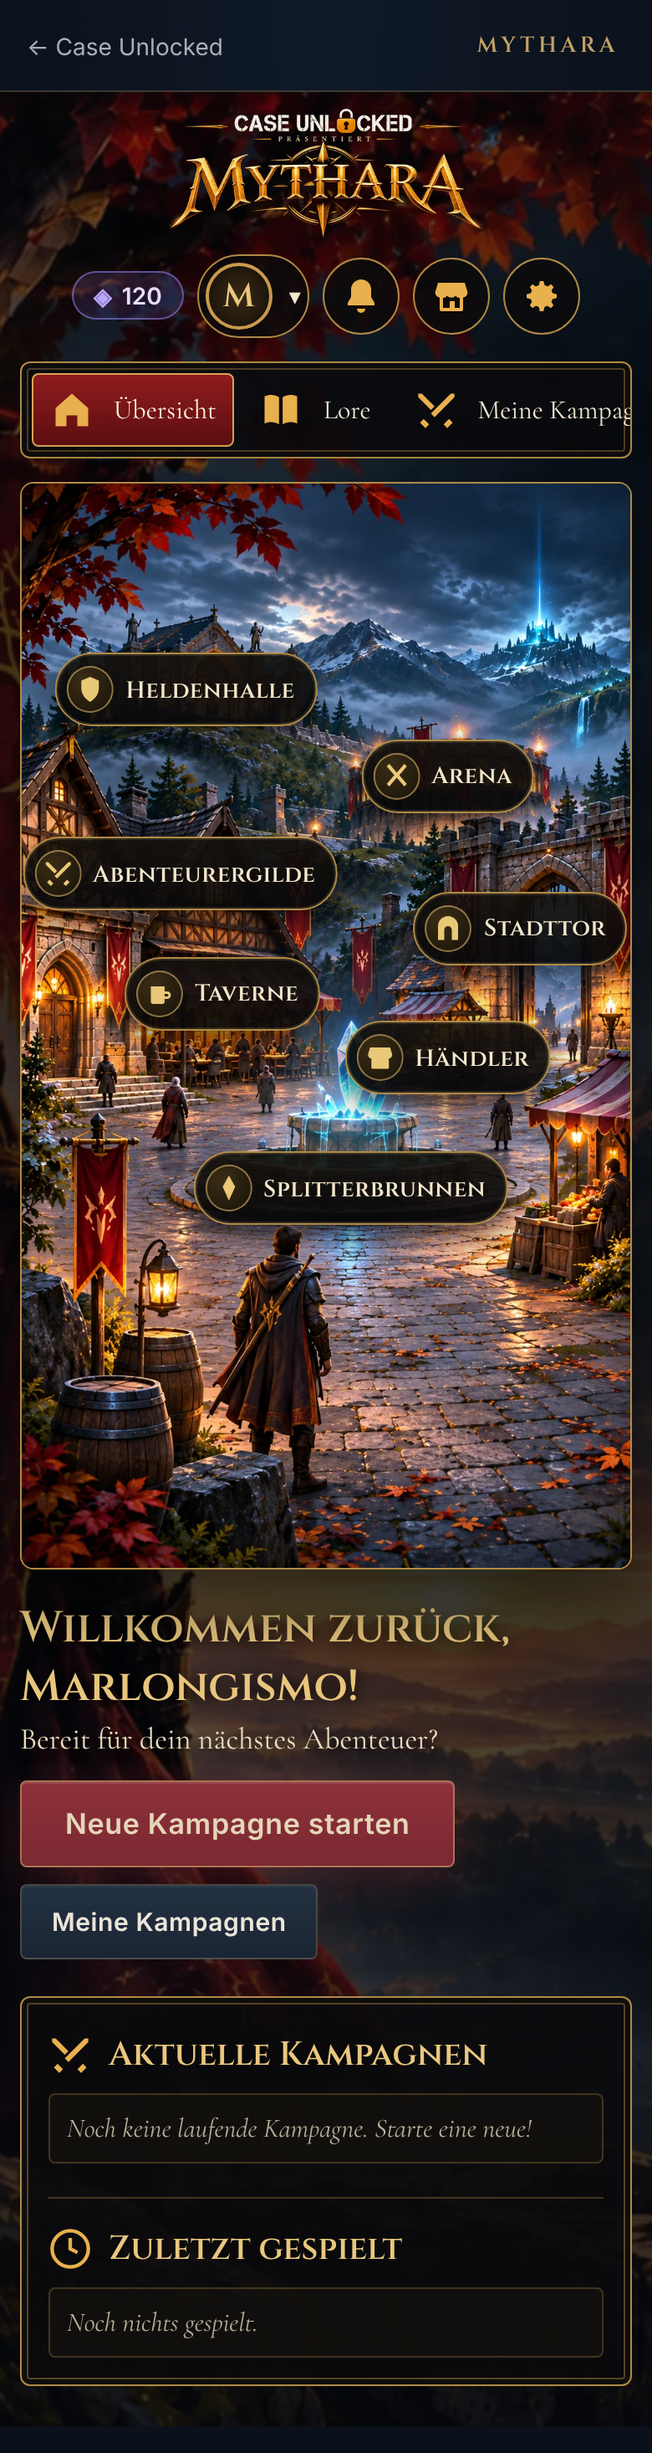
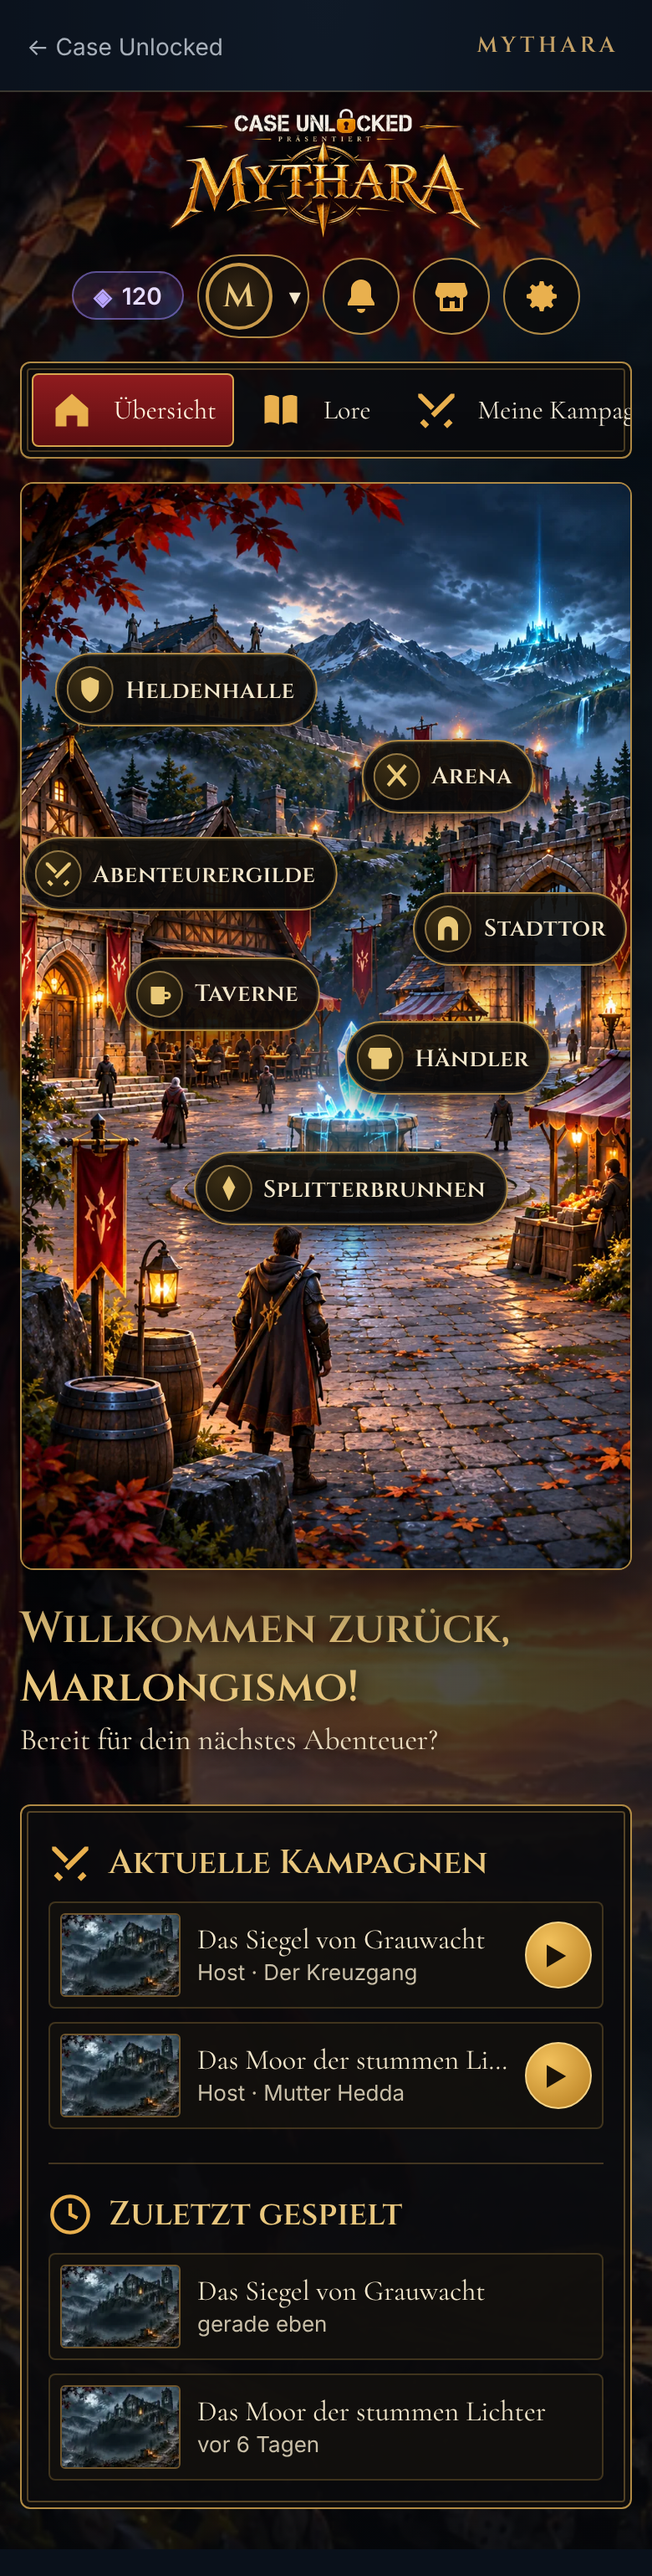
Zwischenstand: Dorf-Startseite ohne Knöpfe unter dem Bild; Abenteurergilde mit Neue Kampagne, Beitreten und Wieder aufnehmen (noch nicht auf main)
Claude-Session: https://claude.ai/code/session_01TxcDgE19T8YxoXVtM1YLbF

diff --git a/abenteuer/js/kampagnen.js b/abenteuer/js/kampagnen.js
@@ -162,16 +162,17 @@
   let archivOffen = false;
   function box(inhalt) {
     const o = $("#qr-overlay");
-    o.innerHTML = `<div class="karte-box kampagnen" role="dialog" aria-labelledby="k-titel"><div class="k-kopf"><h2 id="k-titel">Meine Kampagnen</h2><button class="link" id="k-zu">Schließen</button></div>${inhalt}</div>`;
+    o.innerHTML = `<div class="karte-box kampagnen" role="dialog" aria-labelledby="k-titel"><div class="k-kopf"><h2 id="k-titel">Meine Kampagnen</h2><button class="link" id="k-zu">Schließen</button></div><div class="knoepfe gilde-knoepfe"><button class="btn" data-hub="neu">Neue Kampagne starten</button><button class="btn ghost" data-hub="beitreten">Kampagne beitreten</button></div>${inhalt}</div>`;
     o.hidden = false; $("#k-zu").onclick = () => { o.hidden = true; };
+    o.querySelectorAll(".gilde-knoepfe [data-hub]").forEach((b) => b.addEventListener("click", () => { o.hidden = true; })); // weiter geht es über die Startseite (js/mythara.js)
     return o;
   }
   function eintrag(c) {
-    const i = c.checkpoint || {}, host = c.role === "host", fertig = c.status === "abgeschlossen" || c.status === "archiviert";
+    const i = c.checkpoint || {}, host = c.role === "host", fertig = c.status === "abgeschlossen" || c.status === "archiviert", pause = c.status === "pausiert";
     const spieler = (c.members || []).filter((m) => m.role !== "host");
     const knoepfe = host ? [
-      !fertig && c.version > 0 && i.live ? `<button class="btn klein" data-k="handys" data-id="${c.id}">Mit Handys fortsetzen</button>` : "",
-      !fertig && c.version > 0 ? `<button class="btn ${i.live ? "ghost " : ""}klein" data-k="allein" data-id="${c.id}">${i.live ? "Allein fortsetzen" : "Fortsetzen"}</button>` : "",
+      !fertig && c.version > 0 && i.live ? `<button class="btn klein" data-k="handys" data-id="${c.id}">${pause ? "Mit Handys wieder aufnehmen" : "Mit Handys fortsetzen"}</button>` : "",
+      !fertig && c.version > 0 ? `<button class="btn ${i.live ? "ghost " : ""}klein" data-k="allein" data-id="${c.id}">${i.live ? (pause ? "Allein wieder aufnehmen" : "Allein fortsetzen") : pause ? "Wieder aufnehmen" : "Fortsetzen"}</button>` : "",
       !fertig && c.version === 0 ? `<button class="btn klein" data-k="beginnen" data-id="${c.id}">Beginnen</button>` : "",
       c.version > 0 && c.status !== "archiviert" ? `<button class="btn ghost klein" data-k="neu" data-id="${c.id}">Neu beginnen</button>` : "",
       !fertig && window.MYTHARA && window.MYTHARA.istKonto() ? `<button class="btn ghost klein" data-k="einladen" data-id="${c.id}">Freunde einladen</button>` : "",
@@ -192,15 +193,16 @@
     box(`<p class="note">Kampagnen werden geladen …</p>`);
     let liste;
     try { liste = await rpc("rpg_my_campaigns", {}); }
-    catch (e) { box(`<p class="fb">${esc(e.message)}</p>`); return; }
+    catch (e) { if (!$("#qr-overlay").hidden) box(`<p class="fb">${esc(e.message)}</p>`); return; }
+    if ($("#qr-overlay").hidden) return; // inzwischen weitergeklickt (z. B. „Neue Kampagne starten“): nicht wieder aufklappen
     const offen = liste.filter((c) => c.status !== "archiviert"), archiv = liste.filter((c) => c.status === "archiviert");
     const lokal = window.ABT && window.ABT.gespeichert() && !(K && K.id) ? `<div class="k-lokal"><p>In diesem Browser liegt ein Abenteuer ohne Kampagne.</p><button class="btn klein" data-k="uebernehmen">Als Kampagne speichern</button></div>` : "";
-    const o = box(`<div class="knoepfe gilde-knoepfe"><button class="btn" data-hub="neu">Neue Kampagne starten</button><button class="btn ghost" data-hub="beitreten">Kampagne beitreten</button></div>${lokal}
+    const o = box(`${lokal}
       ${offen.length ? `<ul class="k-liste">${offen.map(eintrag).join("")}</ul>` : `<p class="note">Noch keine Kampagne. Startet ein Abenteuer – es wird automatisch als Kampagne gespeichert.</p>`}
       ${archiv.length ? `<button class="link" id="k-archiv">${archivOffen ? "Archiv ausblenden" : `Archiv anzeigen (${archiv.length})`}</button>${archivOffen ? `<ul class="k-liste archiv">${archiv.map(eintrag).join("")}</ul>` : ""}` : ""}
       <p class="note klein">${window.MYTHARA && window.MYTHARA.istKonto() ? "Deine Kampagnen sind mit deinem Konto verbunden." : "Als Gast gehören deine Kampagnen zu diesem Browser. Mit einem Konto hast du sie auf jedem Gerät."}</p>`);
     const a = $("#k-archiv"); if (a) a.onclick = () => { archivOffen = !archivOffen; bibliothek(); };
-    o.querySelectorAll(".gilde-knoepfe [data-hub]").forEach((b) => b.addEventListener("click", () => { o.hidden = true; })); // weiter geht es über die Startseite (js/mythara.js)
+
     o.querySelectorAll("[data-k]").forEach((b) => { b.onclick = () => aktion(b.dataset.k, b.dataset.id, liste.find((c) => c.id === b.dataset.id), b); });
   }
   async function aktion(was, id, c, b) {

diff --git a/abenteuer/tests/kampagnen-browser.test.js b/abenteuer/tests/kampagnen-browser.test.js
@@ -23,7 +23,7 @@ const K = require('../tools/kampagne.js');
   {
     const p = await (await b.newContext({ viewport: { width: 1280, height: 900 } })).newPage();
     await p.goto(BASE + '/abenteuer/index.html?schnell&testlauf'); await p.evaluate(() => { localStorage.clear(); sessionStorage.clear(); }); await p.reload();
-    await p.click('#my-gast-start'); await p.click('#hub-start [data-hub="neu"]');
+    await p.click('#my-gast-start'); await p.click('.dorf-ort[data-hub="kampagnen"]'); await p.click('.gilde-knoepfe [data-hub="neu"]');
     const reihe = await p.evaluate(() => [...document.querySelectorAll('[data-neu-abenteuer]')].map((x) => x.dataset.neuAbenteuer));
     const soll = K.ids().filter((id) => !K.ALLE[id].META.entwurf).sort((x, y) => (K.ALLE[x].META.schwierigkeit || 1) - (K.ALLE[y].META.schwierigkeit || 1) || (K.ALLE[x].META.reihe || 0) - (K.ALLE[y].META.reihe || 0));
     check(JSON.stringify(reihe) === JSON.stringify(soll), `Hub zeigt alle freigegebenen Abenteuer in der richtigen Reihenfolge: ${reihe.join(' → ')}`);
@@ -39,7 +39,7 @@ const K = require('../tools/kampagne.js');
     const shot = async (n) => { if (SHOTS) { await p.waitForTimeout(300); await p.screenshot({ path: `${SHOTS}/${id}-${n}.png` }); } };
     try {
       await p.goto(BASE + '/abenteuer/index.html?schnell&testlauf&entwurf'); await p.evaluate(() => { localStorage.clear(); sessionStorage.clear(); }); await p.reload();
-      await p.click('#my-gast-start'); await p.click('#hub-start [data-hub="neu"]');
+      await p.click('#my-gast-start'); await p.click('.dorf-ort[data-hub="kampagnen"]'); await p.click('.gilde-knoepfe [data-hub="neu"]');
       await shot('1-hub');
       await p.click(`[data-neu-abenteuer="${id}"]`);
       await p.waitForSelector('#kodex:not([hidden])');

diff --git a/abenteuer/tests/hochwacht.test.js b/abenteuer/tests/hochwacht.test.js
@@ -50,9 +50,9 @@ const R = require('../js/regeln.js'), D = require('../daten/hochwacht.js'), P = 
   p.setDefaultTimeout(20000); p.on('pageerror', (e) => errs.push(e.message)); p.on('dialog', (d) => d.accept());
   try {
     await p.goto(BASE + '/abenteuer/index.html?schnell&testlauf'); await p.evaluate(() => { localStorage.clear(); sessionStorage.clear(); }); await p.reload();
-    await p.click('#my-gast-start'); await p.click('#hub-start [data-hub="neu"]');
+    await p.click('#my-gast-start'); await p.click('.dorf-ort[data-hub="kampagnen"]'); await p.click('.gilde-knoepfe [data-hub="neu"]');
     check(Boolean(await p.$('[data-neu-abenteuer="hochwacht"]')), 'Hochwacht ist im Hub regulär zu sehen (Stufe 3)');
-    await p.goto(BASE + '/abenteuer/index.html?schnell&testlauf'); await p.click('#my-gast-start'); await p.click('#hub-start [data-hub="neu"]');
+    await p.goto(BASE + '/abenteuer/index.html?schnell&testlauf'); await p.click('#my-gast-start'); await p.click('.dorf-ort[data-hub="kampagnen"]'); await p.click('.gilde-knoepfe [data-hub="neu"]');
     await p.click('[data-neu-abenteuer="hochwacht"]');
     await p.waitForSelector('#kodex:not([hidden])'); for (let i = 0; i < 6; i++) await p.click('#kodex-weiter');
     await p.click('#start');

diff --git a/abenteuer/tests/krone.test.js b/abenteuer/tests/krone.test.js
@@ -40,9 +40,9 @@ const R = require('../js/regeln.js'), S = require('../js/szenen.js'), D = requir
   p.on('pageerror', (e) => errs.push(e.message));
   try {
     await p.goto(BASE + '/abenteuer/index.html?schnell&testlauf'); await p.evaluate(() => { localStorage.clear(); sessionStorage.clear(); }); await p.reload();
-    await p.click('#my-gast-start'); await p.click('#hub-start [data-hub="neu"]');
+    await p.click('#my-gast-start'); await p.click('.dorf-ort[data-hub="kampagnen"]'); await p.click('.gilde-knoepfe [data-hub="neu"]');
     check(Boolean(await p.$('[data-neu-abenteuer="krone"]')), 'Die Krone ist im Hub regulär zu sehen (Stufe 4)');
-    await p.goto(BASE + '/abenteuer/index.html?schnell&testlauf'); await p.click('#my-gast-start'); await p.click('#hub-start [data-hub="neu"]');
+    await p.goto(BASE + '/abenteuer/index.html?schnell&testlauf'); await p.click('#my-gast-start'); await p.click('.dorf-ort[data-hub="kampagnen"]'); await p.click('.gilde-knoepfe [data-hub="neu"]');
     await p.click('[data-neu-abenteuer="krone"]');
     await p.waitForSelector('#kodex:not([hidden])'); for (let i = 0; i < 6; i++) await p.click('#kodex-weiter');
     await p.click('#start');

diff --git a/abenteuer/js/mythara.js b/abenteuer/js/mythara.js
@@ -650,7 +650,8 @@
     const h = e.target.closest("[data-hub]"); if (!h || $("#hub").hidden) { const m = $("#hub-menue"); if (m && !m.hidden && !e.target.closest(".hub-profil")) m.hidden = true; return; }
     const was = h.dataset.hub;
     if (was === "uebersicht") return zeigeHub();
-    if (was === "kampagnen") return window.KAMPAGNE ? window.KAMPAGNE.bibliothek() : toast("Kampagnen sind gerade nicht verfügbar.");
+    if (was === "kampagnen") return window.KAMPAGNE ? window.KAMPAGNE.bibliothek()
+      : seiteZeigen("kampagnen", `<h1 class="hub-gruss">Abenteurergilde</h1><p class="hub-untertitel">Gespeicherte Kampagnen sind gerade nicht verfügbar. Ein neues Abenteuer könnt ihr trotzdem beginnen.</p><div class="knoepfe gilde-knoepfe"><button class="btn" data-hub="neu">Neue Kampagne starten</button><button class="btn ghost" data-hub="beitreten">Kampagne beitreten</button></div>`);
     if (was === "helden") return heldenSeite();
     if (was === "neu") return neueKampagne();
     if (was === "freunde") return freundeZeigen();

diff --git a/abenteuer/tests/live-tischhelden.test.js b/abenteuer/tests/live-tischhelden.test.js
@@ -16,7 +16,7 @@ const { chromium } = require('playwright');
   const beitreten = async (n, code) => { const P = H[n] = await page({ width: 390, height: 844 }, n); await P.goto(BASE + '/abenteuer/handy.html#' + code); await P.fill('#name', n); await P.click('#rein'); return P; };
   try {
     await T.goto(BASE + '/abenteuer/index.html?schnell&testlauf'); await T.evaluate(() => localStorage.clear()); await T.reload();
-    await T.click('#my-gast-start'); await T.click('#hub-start [data-hub="neu"]'); await T.click('[data-neu-abenteuer="grauwacht"]');
+    await T.click('#my-gast-start'); await T.click('.dorf-ort[data-hub="kampagnen"]'); await T.click('.gilde-knoepfe [data-hub="neu"]'); await T.click('[data-neu-abenteuer="grauwacht"]');
     await T.waitForSelector('#kodex:not([hidden])'); for (let i = 0; i < 6; i++) await T.click('#kodex-weiter');
     await T.click('#live'); await until(T, () => Boolean(document.querySelector('.beitritt .code')));
     const code = (await T.textContent('.beitritt .code')).trim();

diff --git a/abenteuer/tests/abenteuer.test.js b/abenteuer/tests/abenteuer.test.js
@@ -51,7 +51,7 @@ const R = require('../js/regeln.js'), F = R.FD;
     check(await p.isVisible('#my-name'), `${vp.width}px: Anmeldung sichtbar`);
     await p.click('#my-gast-start');
     check(await p.isVisible('#hub') && /Willkommen in Mythara/.test(await p.textContent('#hub-gruss')), `${vp.width}px: Als Gast → Spielerseite`);
-    await p.click('#hub-start [data-hub="neu"]'); await p.click('[data-neu-abenteuer="grauwacht"]');
+    await p.click('.dorf-ort[data-hub="kampagnen"]'); await p.click('.gilde-knoepfe [data-hub="neu"]'); await p.click('[data-neu-abenteuer="grauwacht"]');
     check(await p.isVisible('#kodex') && /Euer Tisch/.test(await p.textContent('#kodex .seite:not([hidden])')), `${vp.width}px: Kodex beginnt mit „Euer Tisch“`);
     await p.click('#kodex-weiter'); await p.click('#w20'); await p.waitForTimeout(800);
     check(/gegen SG 13|immer/.test(await p.textContent('#w20-text')), `${vp.width}px: Würfel im Kodex zum Ausprobieren`);

diff --git a/abenteuer/index.html b/abenteuer/index.html
@@ -91,7 +91,6 @@
           <h1 class="hub-gruss" id="hub-gruss">Willkommen in Mythara!</h1>
           <p class="hub-untertitel">Bereit für dein nächstes Abenteuer?</p>
           <div class="hub-gast-hinweis" id="hub-gast-hinweis" hidden></div>
-          <div class="knoepfe hub-start-knoepfe"><button class="btn gross" data-hub="neu">Neue Kampagne starten</button><button class="btn ghost" data-hub="kampagnen">Meine Kampagnen</button></div>
           </div>
         </div>
         <aside class="hub-seite">
@@ -268,8 +267,8 @@
   <script src="js/abenteuer-tisch.js?v=32"></script>
   <script src="js/einstieg.js?v=8"></script>
   <script src="js/hilfe.js?v=6"></script>
-  <script src="js/mythara.js?v=40"></script>
-  <script src="js/kampagnen.js?v=21"></script>
+  <script src="js/mythara.js?v=41"></script>
+  <script src="js/kampagnen.js?v=22"></script>
   <script src="js/arena.js?v=7"></script>
   <script src="js/app.js?v=1"></script>
 </body>

diff --git a/abenteuer/tests/live-kampagnen.test.js b/abenteuer/tests/live-kampagnen.test.js
@@ -17,7 +17,7 @@ const { chromium } = require('playwright');
   const zu = async (p, fid) => { if (!(await p.$(`[data-fid="${fid}"]`))) { const k = await p.evaluate((f) => window.ABF.FIGUREN[f].klasse, fid); await p.click(`[data-klasse="${k}"]`); } };
   const nimm = async (p, fid) => { await zu(p, fid); await p.click(`[data-fid="${fid}"]`); await p.click('#f-waehlen'); };
   const einstieg = async (p, modus) => {
-    await p.click('#my-gast-start'); await p.click('#hub-start [data-hub="neu"]'); await p.click('[data-neu-abenteuer="grauwacht"]');
+    await p.click('#my-gast-start'); await p.click('.dorf-ort[data-hub="kampagnen"]'); await p.click('.gilde-knoepfe [data-hub="neu"]'); await p.click('[data-neu-abenteuer="grauwacht"]');
     await p.waitForSelector('#kodex:not([hidden])');
     for (let i = 0; i < 6; i++) await p.click('#kodex-weiter');
     await p.click(modus === 'live' ? '#live' : '#start');

diff --git a/abenteuer/tests/live-moor.test.js b/abenteuer/tests/live-moor.test.js
@@ -14,7 +14,7 @@ const { chromium } = require('playwright');
   const T = await page({ width: 1100, height: 900 }, 'Tisch'), H = {};
   try {
     await T.goto(BASE + '/abenteuer/index.html?schnell&testlauf'); await T.evaluate(() => localStorage.clear()); await T.reload();
-    await T.click('#my-gast-start'); await T.click('#hub-start [data-hub="neu"]'); await T.click('[data-neu-abenteuer="rabenmoor"]');
+    await T.click('#my-gast-start'); await T.click('.dorf-ort[data-hub="kampagnen"]'); await T.click('.gilde-knoepfe [data-hub="neu"]'); await T.click('[data-neu-abenteuer="rabenmoor"]');
     await T.waitForSelector('#kodex:not([hidden])'); for (let i = 0; i < 6; i++) await T.click('#kodex-weiter');
     await T.click('#live'); await until(T, () => Boolean(document.querySelector('.beitritt .code')));
     const code = (await T.textContent('.beitritt .code')).trim();

diff --git a/abenteuer/tests/live-wiedereinstieg.test.js b/abenteuer/tests/live-wiedereinstieg.test.js
@@ -18,7 +18,7 @@ const { chromium } = require('playwright');
   let kid = null;
   const L = await page('Tisch');
   try {
-    await L.goto(BASE + '/abenteuer/index.html?schnell'); await L.click('#my-gast-start'); await L.click('#hub-start [data-hub="neu"]'); await L.click('[data-neu-abenteuer="grauwacht"]');
+    await L.goto(BASE + '/abenteuer/index.html?schnell'); await L.click('#my-gast-start'); await L.click('.dorf-ort[data-hub="kampagnen"]'); await L.click('.gilde-knoepfe [data-hub="neu"]'); await L.click('[data-neu-abenteuer="grauwacht"]');
     await L.waitForSelector('#kodex:not([hidden])'); for (let i = 0; i < 6; i++) await L.click('#kodex-weiter');
     await L.click('#live'); await L.waitForSelector('#ei-weiter'); await L.click('#ei-weiter');
     await L.waitForSelector('.beitritt .code'); const code = (await L.textContent('.beitritt .code')).trim();

diff --git a/abenteuer/tests/heim.test.js b/abenteuer/tests/heim.test.js
@@ -18,7 +18,7 @@ const { chromium } = require('playwright');
     check(await sichtbar('hub'), 'Spielerseite (Startseite) offen');
     await p.click('#brand-heim');
     check(await sichtbar('hub'), 'MYTHARA auf der Startseite: bleibt auf der Startseite');
-    await p.click('#hub-start [data-hub="neu"]'); await p.click('[data-neu-abenteuer="rabenmoor"]');
+    await p.click('.dorf-ort[data-hub="kampagnen"]'); await p.click('.gilde-knoepfe [data-hub="neu"]'); await p.click('[data-neu-abenteuer="rabenmoor"]');
     await p.waitForSelector('#kodex:not([hidden])'); for (let i = 0; i < 6; i++) await p.click('#kodex-weiter');
     await p.click('#start');
     const zu = async (fid) => { if (!(await p.$(`[data-fid="${fid}"]`))) { const k = await p.evaluate((f) => window.ABF.FIGUREN[f].klasse, fid); await p.click(`[data-klasse="${k}"]`); } };
